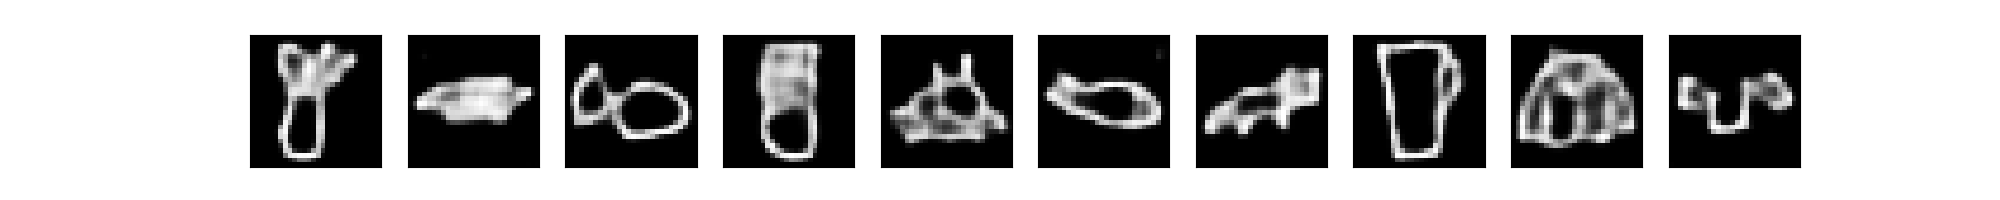
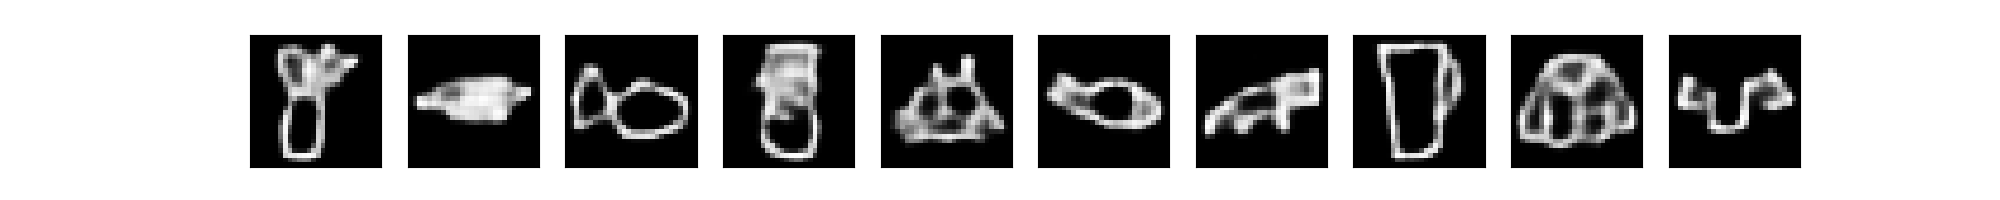
update

diff --git a/QuickDraw_noisy_classifier.py b/QuickDraw_noisy_classifier.py
@@ -240,17 +240,6 @@ def main():
     # Denoise noisy query images and plot
     #
     denoised_query_imgs = autoencoder.predict(x_query)
-
-    if 1:
-
-        plot_unlabeled_images_random(x_query, 10,
-                                     "", ypixels, xpixels, seed,
-                                     "answer/query_input.png")
-
-        plot_unlabeled_images_random(denoised_query_imgs, 10,
-                                     "", ypixels, xpixels, seed,
-                                     "answer/CAE_result.png")
-
     x_query = denoised_query_imgs  # set as the query images now
 
     # ==================================================
@@ -303,9 +292,26 @@ def main():
         y_query_plot_pred = cnn.predict_classes(x_query_plot)  # predict the class index (integer)
 
         print("Plotting query predictions")
+
+        # original noisy query images
+        plot_unlabeled_images_random(x_query_original, 10,
+                                     "", ypixels, xpixels, seed,
+                                     "answer/query.png")
+
+        # use CAE: noisy image -> clean image
+        plot_unlabeled_images_random(denoised_query_imgs, 10,
+                                     "", ypixels, xpixels, seed,
+                                     "answer/CAE_result.png")
+
+        # use CNN: denoised image -> predict label
         plot_labeled_images_random(x_query, y_query_plot_pred, categories, 10,
                                    "Classifying extracted query images", ypixels, xpixels, seed,
                                    "answer/CNN_result.png")
+
+        # main result: noisy query images -> predict label
+        plot_labeled_images_random(x_query_original, y_query_plot_pred, categories, 10,
+                                   "Classifying extracted query images", ypixels, xpixels, seed,
+                                   "answer/MAIN_result.png")
 
 
 

diff --git a/README.md b/README.md
@@ -2,12 +2,12 @@
 
 Given a set of query images of a noisy Google QuickDraw object, we classify the object drawn in the noisy sketch. An example classification of 10 of the described task images being classified by our trained model 
 
-![My image](https://github.com/ankonzoid/Google-QuickDraw/blob/master/answer/CNN_result.png)
+![My image](https://github.com/ankonzoid/Google-QuickDraw/blob/master/answer/MAIN_result.png)
 
 The steps taken explicitly by our model are:
 
 1) Create/extract query images
-![My image](https://github.com/ankonzoid/Google-QuickDraw/blob/master/answer/query_input.png)
+![My image](https://github.com/ankonzoid/Google-QuickDraw/blob/master/answer/query.png)
 
 2) Denoise the noisy query images using a convolutional autoencoder (convAE)
 ![My image](https://github.com/ankonzoid/Google-QuickDraw/blob/master/answer/CAE_result.png)
